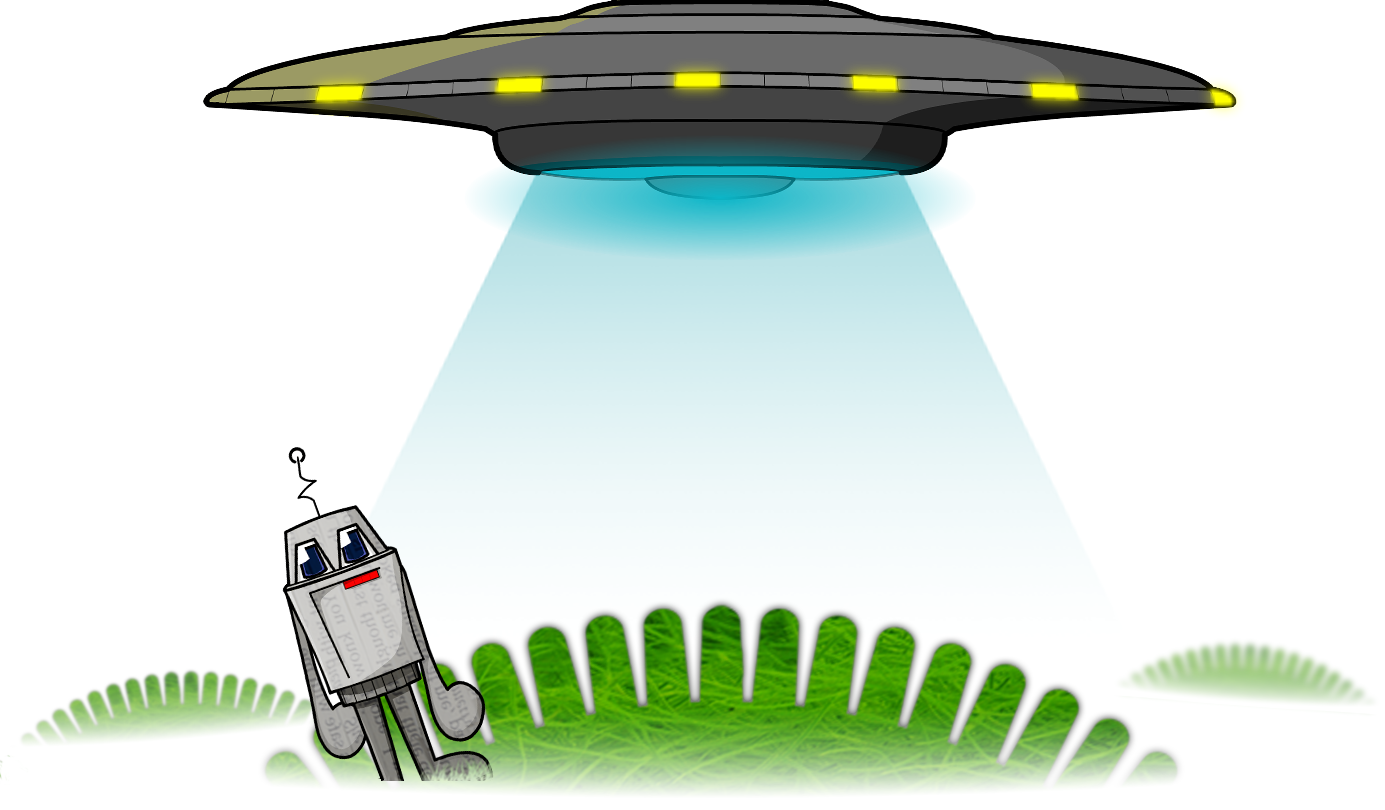
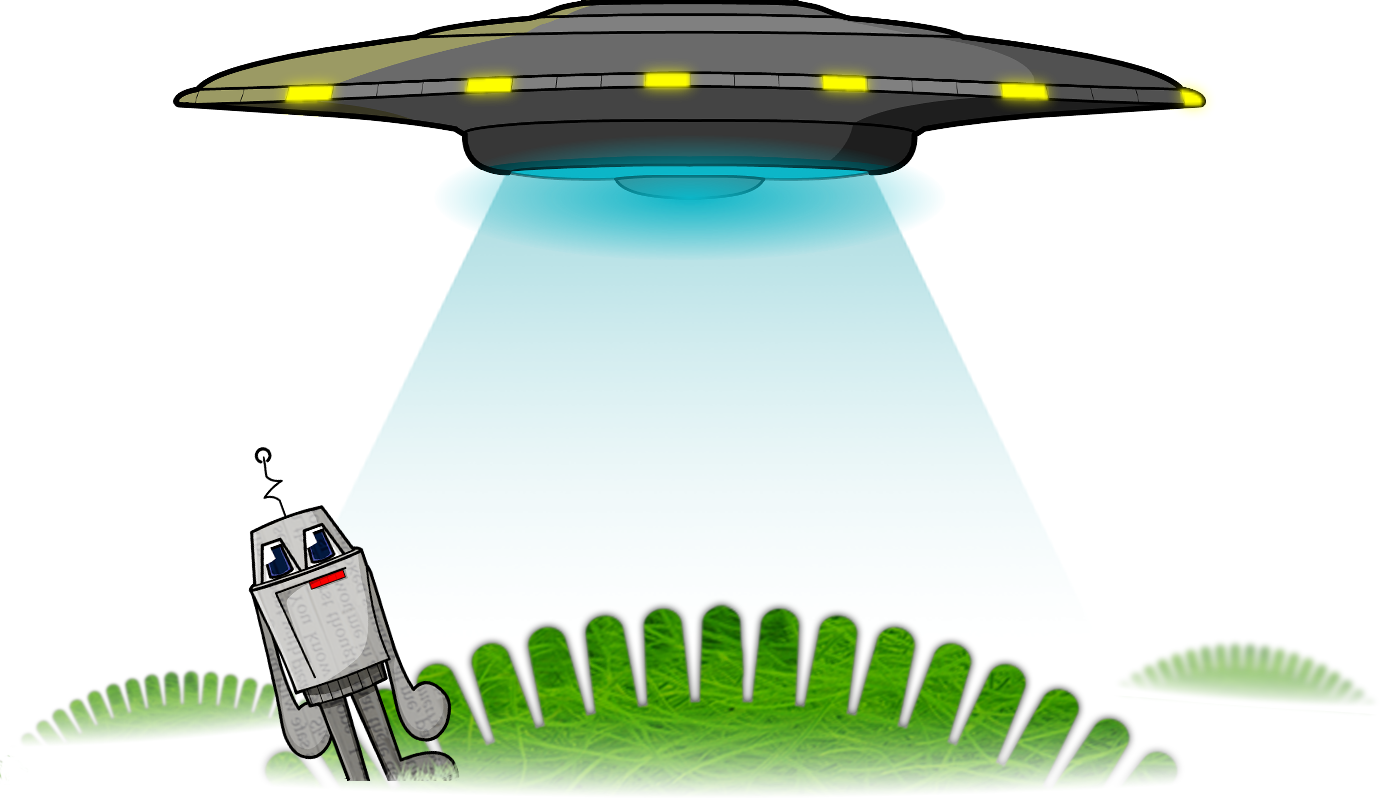
adjusted background, header and structure

Changed region(s): [[0.1242, 0.0, 0.5278, 0.5556], [0.5278, 0.0, 0.9004, 0.5556], [0.1552, 0.5556, 0.3726, 0.9877]]

diff --git a/public/css/screen.css b/public/css/screen.css
@@ -12,13 +12,14 @@ body {
 }
 
 .page {
-	background: url(../images/background.jpg) white top repeat-x;
-	margin:		0 auto;
-	width:		100%;
+	background: 	url(../images/background.jpg) white top repeat-x;
+	margin:			0 auto;
+	width:			100%;
 }
 
 .page .content {
-	width:		100%;
+	width:		1385px;
+	margin:		0 auto;
 	background: url(../images/space_image.png) no-repeat center top;
 	
 }
@@ -30,7 +31,8 @@ body {
 }
 
 header {
-	
+	padding-top:250px;
+	margin-bottom: 50px;
 }
 
 footer {
@@ -60,17 +62,11 @@ h4, h5, h6, p, li {
 	font-family:		'VAG Rounded W01 light';
 }
 
-h1 {
-	
-}
-
-h1 span {
-	
-}
 
 h2 {
-	font-size: 			22px;
+	font-size: 			24px;
 	text-transform: 	uppercase;
+	letter-spacing: 1px;
 }
 
 p {
@@ -123,11 +119,11 @@ a {
 	border-bottom: 			1px solid #0c4fbb;
 	border-top: 			1px solid #0c4fbb;
 	padding:				20px 0 20px 0;
-	margin:					20px 0 40px 0;
+	margin:					40px 0 30px 0;
 }
 
 #cta div {
-	margin:					40px 0 20px 0;
+	margin:					30px 0 20px 0;
 }
 
 

diff --git a/public/index.html b/public/index.html
@@ -16,11 +16,12 @@
 <body class="index gradient">
 
 <div class="page">
-	<header>
-		<h1><span>Jarbrain - Creative Video and Animation Production Agency, London</span></h1>
-	</header>
+	
 		<section class="content">
 		<div id="content-inner">
+				<header>
+					<img src="images/jarbrain_logo.png" alt="jarbrain_logo" width="313" height="101">
+				</header>
 				<article class="video">
 					<iframe src="//player.vimeo.com/video/20576200?title=0&amp;byline=0&amp;portrait=0&amp;color=3170d6" width="710" height="400" frameborder="0" webkitallowfullscreen mozallowfullscreen allowfullscreen>
 					</iframe>
